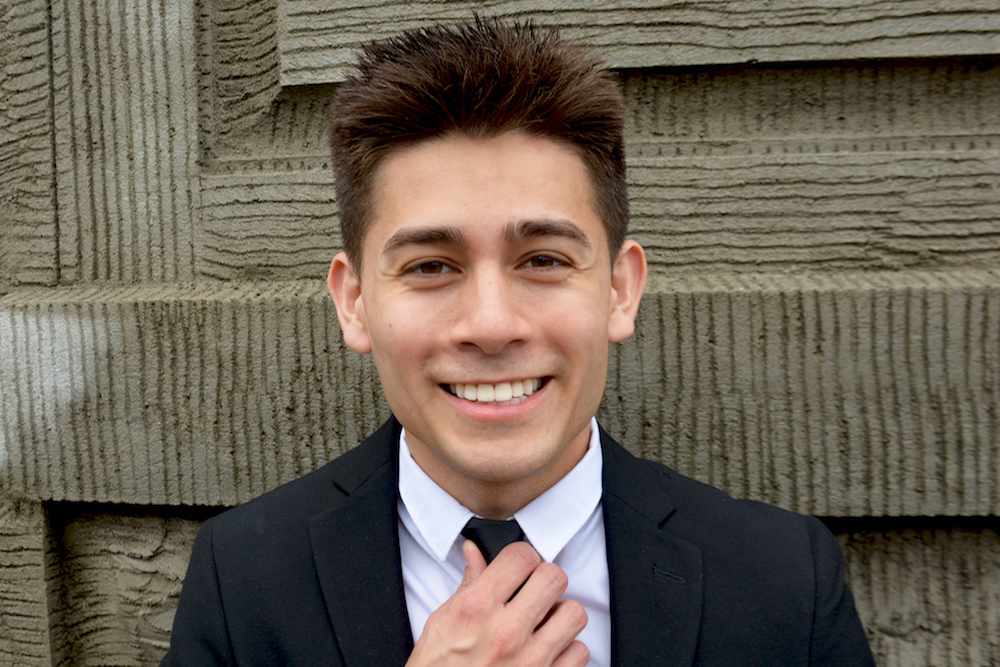
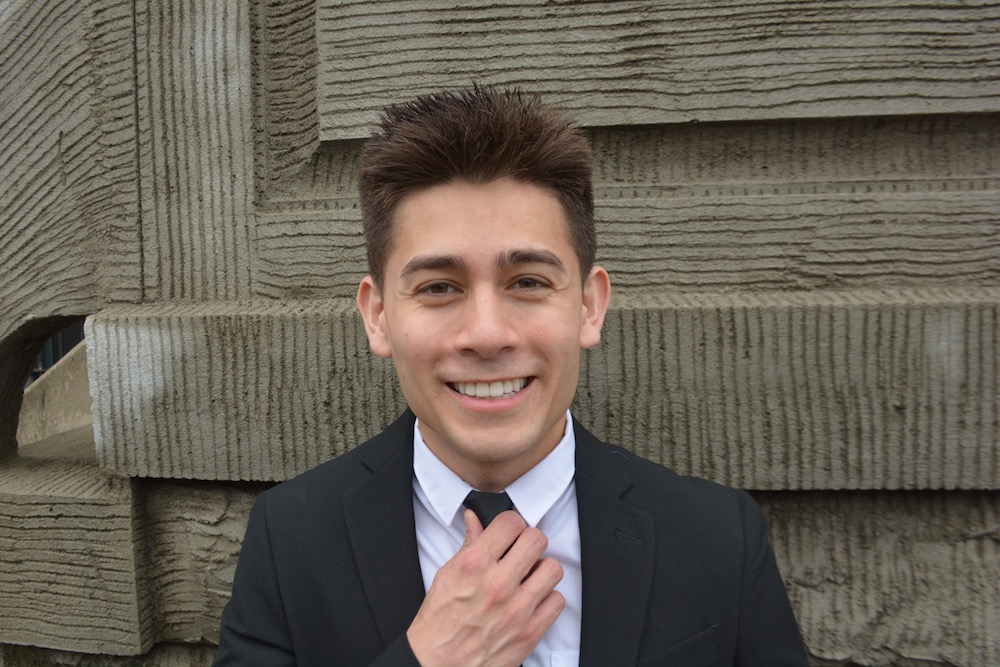
tyler pic

diff --git a/index.html b/index.html
@@ -433,7 +433,10 @@
 										<img src="images/managers/lau.png" alt="Second Slide">
 									</div>
 									<div class="item">
-										<img src="images/managers/john.jpg" alt="Third Slide">
+										<img src="images/managers/tyler.jpg" alt="Third Slide">
+									</div>
+									<div class="item">
+										<img src="images/managers/john.jpg" alt="Fourth Slide">
 									</div>
 								</div>
 							</div>
